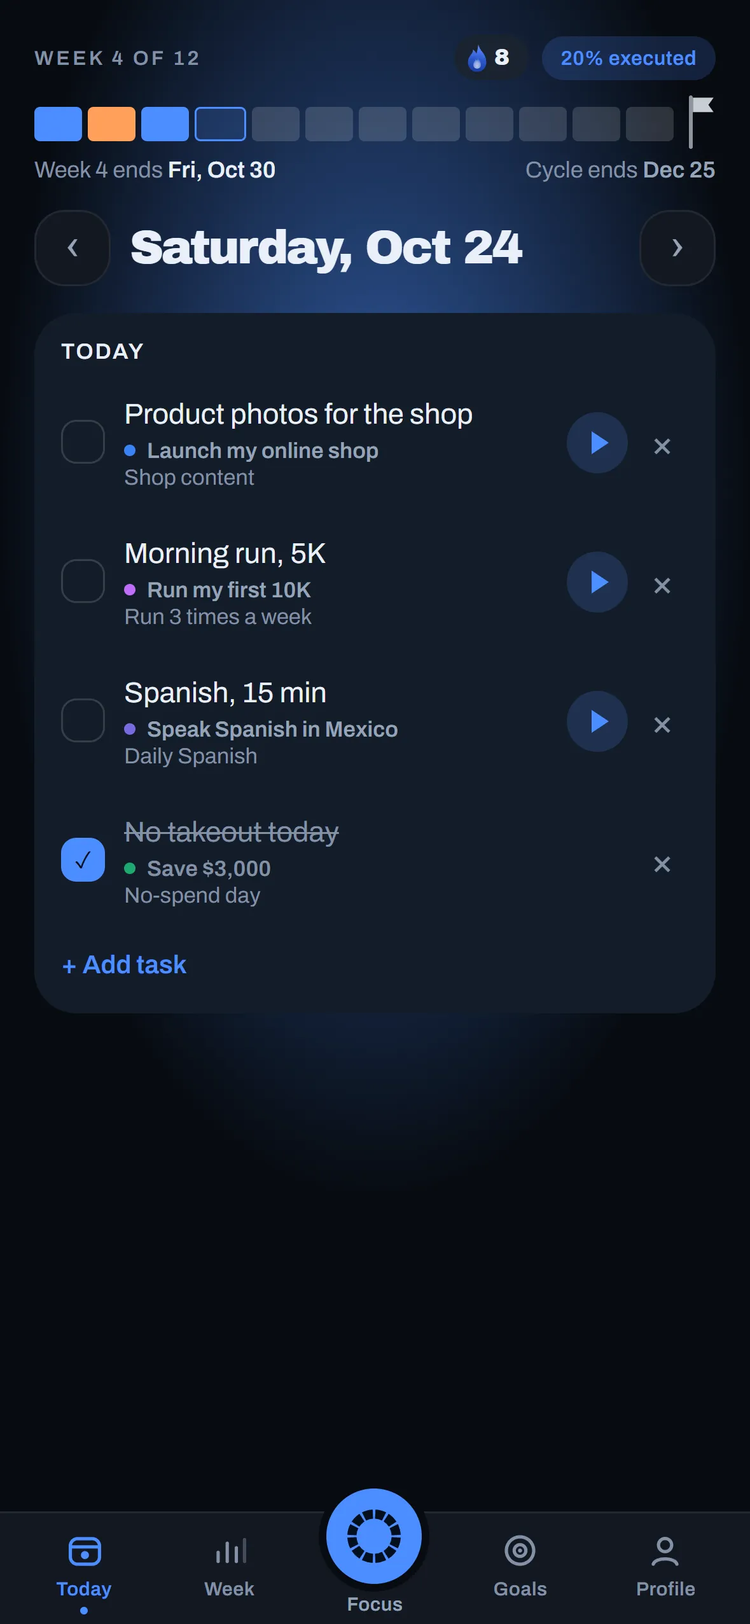
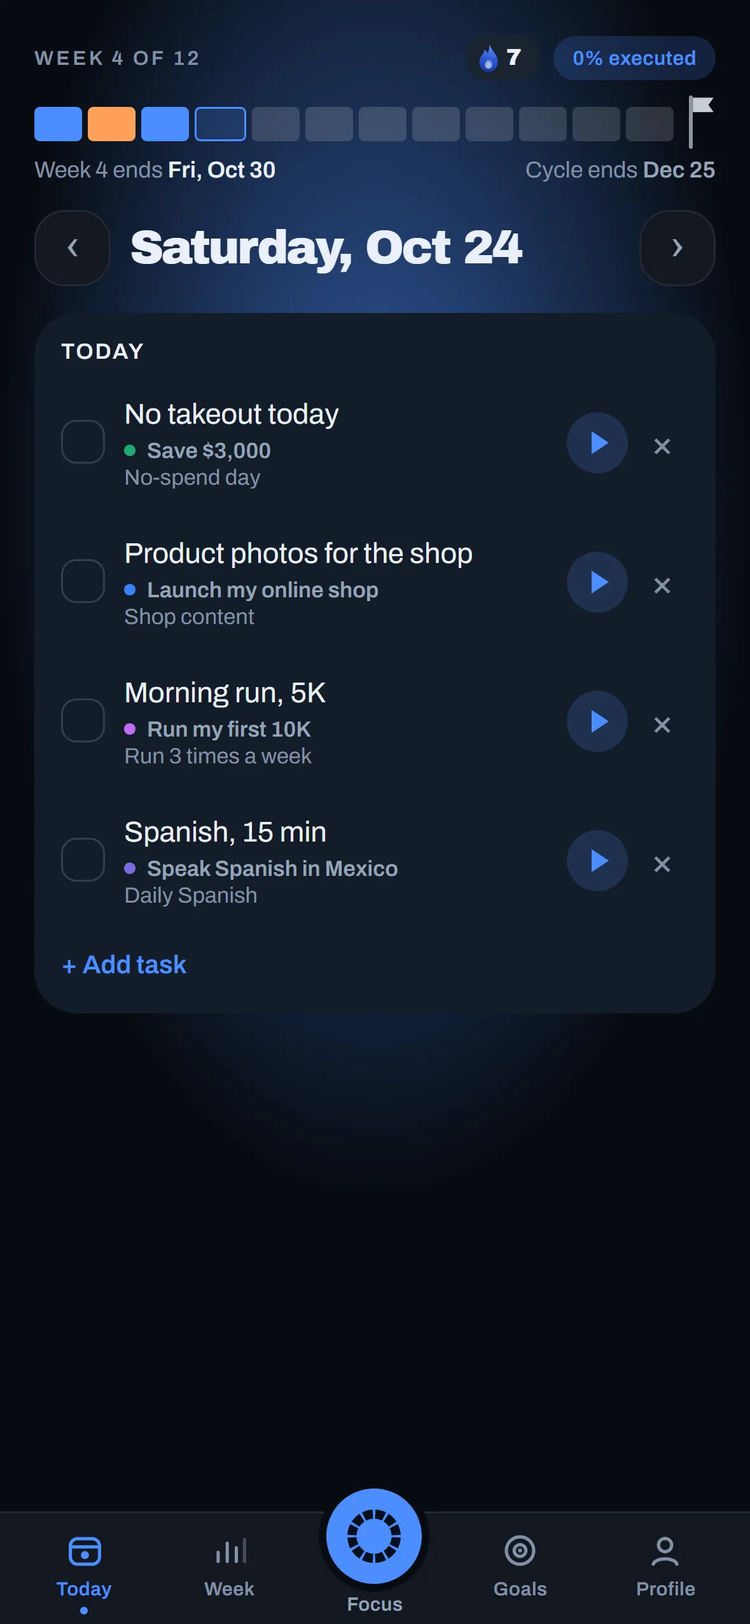
How it works, étape 04 : Today avec ses tâches à faire, sans coche

diff --git a/home-ui.js b/home-ui.js
@@ -1,1 +1,1 @@
-!function(){var e=document.documentElement,t=e.classList.contains("still");window.SY={still:t};var n=document.querySelectorAll(".theme button");function r(){n.forEach(function(t){t.setAttribute("aria-pressed",String(t.dataset.set===e.getAttribute("data-theme")))})}r(),n.forEach(function(n){n.addEventListener("click",function(){var a=n.dataset.set;if(a!==e.getAttribute("data-theme")){var s=function(){e.setAttribute("data-theme",a),r(),document.dispatchEvent(new CustomEvent("sy-theme"))};try{localStorage.setItem("sy-theme",a)}catch(e){}document.startViewTransition&&!t?document.startViewTransition(s):s()}})}),document.querySelectorAll("form[data-join]").forEach(function(e){e.addEventListener("submit",function(t){t.preventDefault();var n=document.createElement("p");n.className="join-done",n.setAttribute("role","status"),n.textContent="You’re on the list. We’ll email you the day Shortyear opens.",e.replaceWith(n)})});var a=document.querySelectorAll("[data-reveal]");if(!t&&"IntersectionObserver"in window){var s=new IntersectionObserver(function(e){e.forEach(function(e){e.isIntersecting&&(e.target.classList.add("in"),s.unobserve(e.target))})},{rootMargin:"0px 0px -12% 0px",threshold:.12});a.forEach(function(e){s.observe(e)})}else a.forEach(function(e){e.classList.add("in")})}(),function(){var e=document.documentElement,t=window.SY.still,n=matchMedia("(min-width: 900px)");function r(e,n,r,a,s){e.querySelectorAll(".ring g").forEach(function(e){e.querySelectorAll("path").forEach(function(e,i){e.style.transitionDelay=(a&&!t?Math.max(0,i-(s||0))*a:0)+"ms",e.classList.toggle("on",i<n),e.classList.toggle("now",!!r&&i===n)})})}function a(e,n,r){if(e)if(!t&&"IntersectionObserver"in window){var a=new IntersectionObserver(function(e){e.forEach(function(e){e.isIntersecting&&(n(),a.disconnect())})},r||{threshold:.35});a.observe(e)}else n()}requestAnimationFrame(function(){requestAnimationFrame(function(){e.classList.add("go")})});var s=document.getElementById("hw");s&&function(){for(var e=t||matchMedia("(prefers-reduced-motion: reduce)").matches,r=document.getElementById("hw-rail"),a=r.querySelectorAll(".hw-st"),i=s.querySelectorAll(".hw-segs i"),o=document.getElementById("hw-mk"),c=document.getElementById("hw-mtext"),l=document.getElementById("hw-cap"),d=document.getElementById("hw-view"),u=document.getElementById("hw-scene"),h=u.querySelectorAll(".hw-lv"),f=document.getElementById("hw-cyc"),m=document.getElementById("hw-ph3"),v=[0,1,1,2,2,3],p=["Illustration of “My 3 years”. Sample account.","Illustration of one cycle. Sample account.","Illustration of one cycle. Sample account.","Real screen from the app. Sample account.","Real screen from the app. Sample account.","Real screen from the app. Sample account."],y="",g=0;g<3;g++){y+='<div class="hw-yr"><span class="hw-yl">Y'+(g+1)+'</span><div class="hw-g">';for(var w=0;w<52;w++)y+='<span class="hw-sq'+(0===g&&0===w?" now":"")+'"></span>';y+="</div></div>"}document.getElementById("hw-years").innerHTML=y,y="";for(var E=0;E<12;E++){y+='<div class="hw-w"><span class="hw-sq">';for(var L=0;L<12;L++)y+='<i class="hw-dot" style="--i:'+(E+.15*L).toFixed(2)+'"></i>';y+='</span><span class="hw-n">'+(E+1)+"</span></div>"}document.getElementById("hw-row").innerHTML=y+'<span></span><div class="hw-w"><span class="hw-sq r13"></span><span class="hw-n">13</span></div>';document.getElementById("hw-days").innerHTML=[["Fri",23,1],["Sat",24,4],["Sun",25,1],["Mon",26,2],["Tue",27,1],["Wed",28,1],["Thu",29,1]].map(function(e){return'<div class="hw-day'+(24===e[1]?" today":"")+'"><span class="dn">'+e[0]+'</span><span class="dd">'+e[1]+'</span><span class="ts">'+new Array(e[2]+1).join("<span></span>")+"</span></div>"}).join("");var b=-1,q=[];function S(t,n){e?n():q.push(setTimeout(n,t))}function A(t){m.querySelectorAll(".hw-scr").forEach(function(e){e.classList.toggle("on",e.getAttribute("data-s")===t)}),e||(m.classList.remove("sweeping"),m.offsetWidth,m.classList.add("sweeping"))}function x(e){if(e!==b){b=e,q.forEach(clearTimeout),q=[],a.forEach(function(t,n){t.classList.toggle("on",n===e),t.classList.toggle("done",n<e)}),r.style.setProperty("--p",e/5),i.forEach(function(t,n){t.classList.toggle("on",n<=e)});var t=a[e].querySelector(".hw-k"),n=a[e].querySelector(".hw-txt > div");o.innerHTML=t.innerHTML,c.innerHTML=n.innerHTML,l.textContent=p[e];var s=v[e];h.forEach(function(e,t){e.classList.toggle("past",t<s),e.classList.toggle("cur",t===s),e.classList.toggle("future",t>s)}),f.classList.remove("fill"),h[2].classList.remove("up"),2===e&&S(500,function(){f.classList.add("fill")}),3===e&&(A("today"),S(1300,function(){h[2].classList.add("up")}),S(2800,function(){A("done")})),4===e&&(h[2].classList.add("up"),A("week"))}}function M(){if(!n.matches)return u.style.removeProperty("--fit"),void u.style.setProperty("--fh",Math.max(200,Math.min(560,d.clientHeight-58))+"px");u.style.removeProperty("--fh"),u.style.setProperty("--fit",Math.min(1,d.clientWidth/640,.8*innerHeight/620).toFixed(3))}var C=/[?&]hw=(\d)/.exec(location.search);function I(){if(!C){var e=s.getBoundingClientRect(),t=s.offsetHeight-innerHeight;x(Math.min(5,Math.floor(6*Math.min(1,Math.max(0,-e.top/t)))))}}M(),addEventListener("resize",function(){M(),I()}),C?x(Math.min(6,Math.max(1,Number(C[1])))-1):(x(0),I(),addEventListener("scroll",I,{passive:!0}))}();var i=document.querySelector(".qs-worlds"),o=document.querySelector(".qs-mq");if(i&&o){var c=!1,l=!1,d=function(){c&&l&&!t&&o.classList.add("glint")};a(i,function(){i.classList.add("go"),setTimeout(function(){c=!0,d()},t?0:3300)}),a(o,function(){l=!0,d()},{threshold:.5})}var u=document.querySelector(".kw-stage");a(u,function(){u.classList.add("go")});var h=document.querySelector(".end-stage");if(h&&r(h,0,!1),a(h,function(){h.classList.add("lit"),setTimeout(function(){r(h,0,!0),h.classList.add("glow")},t?0:300)}),"IntersectionObserver"in window){var f=new IntersectionObserver(function(e){e.forEach(function(e){e.target.classList.toggle("live",e.isIntersecting)})},{rootMargin:"10% 0px"});document.querySelectorAll("[data-live]").forEach(function(e){f.observe(e)})}document.querySelector(".bg").classList.add("live");var m=document.getElementById("top");function v(){m.classList.toggle("solid",scrollY>24)}addEventListener("scroll",v,{passive:!0}),v();var p=document.querySelector(".bg"),y=document.querySelector(".hero");p&&y&&("IntersectionObserver"in window?new IntersectionObserver(function(e){p.classList.toggle("past-hero",e[0].intersectionRatio<.5)},{threshold:[0,.5,1]}).observe(y):p.classList.add("past-hero"));var g=matchMedia("(max-width: 640px)");document.querySelectorAll(".tfl-row, .vitrines").forEach(function(e){var n=e.querySelectorAll(":scope > article"),r=n.length,a=document.createElement("div");a.className="m-dots";var s=function(){return parseFloat(getComputedStyle(e).paddingLeft)||0};n.forEach(function(n,i){var o=document.createElement("button");o.type="button",o.setAttribute("aria-label","Show card "+(i+1)+" of "+r),o.addEventListener("click",function(){e.scrollTo({left:e.scrollLeft+n.getBoundingClientRect().left-e.getBoundingClientRect().left-s(),behavior:t||matchMedia("(prefers-reduced-motion: reduce)").matches?"auto":"smooth"})}),a.appendChild(o)}),e.after(a);var i=function(){var t=e.getBoundingClientRect().left+s(),r=0,i=1/0;n.forEach(function(e,n){var a=Math.abs(e.getBoundingClientRect().left-t);a<i&&(i=a,r=n)}),a.querySelectorAll("button").forEach(function(e,t){e.setAttribute("aria-current",String(t===r))})};e.addEventListener("scroll",i,{passive:!0}),i()});var w=document.getElementById("research");w&&function(){var e=w.querySelectorAll(".card");function t(e,t){e.classList.toggle("open",t);var n=e.querySelector(".rq");n&&n.setAttribute("aria-expanded",String(t));var r=e.querySelector(".study");r&&(r.open=t)}function n(){g.matches?w.classList.contains("rq-on")||(w.classList.add("rq-on"),e.forEach(function(e){var n=e.querySelector("h3"),r=document.createElement("button");for(r.type="button",r.className="rq";n.firstChild;)r.appendChild(n.firstChild);n.appendChild(r),r.addEventListener("click",function(){t(e,!e.classList.contains("open"))}),t(e,!1)})):w.classList.contains("rq-on")&&(w.classList.remove("rq-on"),e.forEach(function(e){var t=e.querySelector("h3"),n=t.querySelector(".rq");if(n){for(;n.firstChild;)t.insertBefore(n.firstChild,n);n.remove()}e.classList.remove("open");var r=e.querySelector(".study");r&&(r.open=!1)}))}n(),g.addEventListener("change",n);var r=function(e){var n=/^#r[1-6]$/.test(e||"")&&document.querySelector(e);n&&w.classList.contains("rq-on")&&t(n,!0)};document.addEventListener("click",function(e){var t=e.target.closest&&e.target.closest("a.ref");t&&r(t.getAttribute("href"))}),r(location.hash)}(),g.matches&&document.querySelectorAll(".faq details[open]").forEach(function(e){e.open=!1}),document.querySelectorAll(".dn-stage").forEach(function(e){var t=e.querySelector(".dn-range");if(t){var n=e.querySelector(".dn-phone .screen"),r=function(){n&&e.style.setProperty("--dnw",n.clientWidth+"px")},a=function(){e.style.setProperty("--p",t.value+"%"),e.style.setProperty("--pn",t.value/100)};t.addEventListener("input",a),addEventListener("resize",r),r(),a()}})}(),function(){var e=performance.now(),t=document.querySelectorAll("[data-hl]");if(t.length){var n;window.SY.still||matchMedia("(prefers-reduced-motion: reduce)").matches;(document.fonts?document.fonts.load("600 24px Archivo").then(function(){return document.fonts.ready}):Promise.resolve()).then(function(){a(!1)}),addEventListener("resize",function(){clearTimeout(n),n=setTimeout(function(){a(!1)},150)})}function r(e,t){var n=document.createElementNS("http://www.w3.org/2000/svg",e);for(var r in t)n.setAttribute(r,t[r]);return n}function a(n){t.forEach(function(t,a){!function(t,n,a){t.querySelectorAll(".hl").forEach(function(e){e.remove()});var s=t.offsetWidth,i=t.offsetHeight,o=.22*i,c=.3*i,l=.2*i,d=s+o+c,u=i+2*l,h="hl"+n,f=r("svg",{class:"hl",width:d,height:u,viewBox:"0 0 "+d+" "+u,"aria-hidden":"true"});f.style.left=-o+"px",f.style.top=-l+"px";var m=r("defs",{}),v=r("filter",{id:h+"f",x:"-3%",y:"-25%",width:"106%",height:"150%"});v.appendChild(r("feTurbulence",{type:"fractalNoise",baseFrequency:".06 .9",numOctaves:"2",seed:String(4+n),result:"n"})),v.appendChild(r("feDisplacementMap",{in:"SourceGraphic",in2:"n",scale:String(Math.max(3,.1*i)),result:"d"})),v.appendChild(r("feGaussianBlur",{in:"d",stdDeviation:".5"}));for(var p=l+.1*i,y=l+.98*i,g=.25*o,w=d-.2*c,E=.07*-i,L=[],b=[],q=0;q<=28;q++){var S=q/28,A=g+(w-g)*S,x=E*S;L.push([A,p+x+Math.sin(11*S+n)*i*.025+Math.sin(29*S+3*n)*i*.012]),b.push([A,y+x+Math.sin(9*S+2*n)*i*.03+Math.sin(23*S)*i*.012])}L[0][0]+=.16*i,b[28][0]-=.12*i;var M=function(e){return e[0].toFixed(1)+" "+e[1].toFixed(1)},C="M"+L.map(M).join("L")+"L"+b.reverse().map(M).join("L")+"Z",I=r("linearGradient",{id:h+"g",x1:"0",x2:"1",y1:"0",y2:"0"});[[0,.98],[.06,.88],[.5,.84],[.94,.88],[1,.98]].forEach(function(e){I.appendChild(r("stop",{offset:e[0],"stop-color":"var(--hl)","stop-opacity":e[1]}))});var B=r("mask",{id:h+"m",maskUnits:"userSpaceOnUse"}),T=r("rect",{x:0,y:0,width:d,height:u,fill:"#fff"});if(a&&(T.style.transformBox="fill-box",T.style.transformOrigin="left",T.style.animation="hl-swipe .45s linear "+Math.max(0,1.05+.36*n-(performance.now()-e)/1e3).toFixed(3)+"s both"),B.appendChild(T),m.appendChild(v),m.appendChild(I),m.appendChild(B),f.appendChild(m),f.appendChild(r("path",{d:C,fill:"url(#"+h+"g)",filter:"url(#"+h+"f)",mask:"url(#"+h+"m)"})),t.insertBefore(f,t.firstChild),t.querySelectorAll(".hl-ink").forEach(function(e){e.remove()}),a){var k=document.createElement("span");if(k.className="hl-ink",k.setAttribute("aria-hidden","true"),k.textContent=t.getAttribute("data-text")||(t.setAttribute("data-text",t.textContent),t.textContent),a){var N=Math.max(0,1.05+.36*n-(performance.now()-e)/1e3);k.style.animation="hl-ink "+(.45*s/d).toFixed(3)+"s linear "+(N+.45*o/d).toFixed(3)+"s both"}t.appendChild(k)}else t.classList.add("hl-on")}(t,a,n)})}}(),function(){var e=document.getElementById("hw"),t=document.getElementById("hw-scene");if(e&&t){var n=window.SY&&window.SY.still,r=(/[?&]hw2=(list|carousel)/.exec(location.search)||[])[1]||"carousel",a=t.querySelectorAll(".hw-lv"),s=e.querySelectorAll(".hw-st"),i=[0,1,1,2,2,3],o=document.createElement("div");o.className="hw2 hw2-"+r;var c=document.createElement("div");c.className="hw2-track",o.appendChild(c),e.parentNode.replaceChild(o,e);var l=[];document.addEventListener("sy-theme",v);var d=[];if(s.forEach(function(e,n){var r=document.createElement("article");r.className="hw2-step",c.appendChild(r);var s=document.createElement("div");s.className="hw2-txt",s.appendChild(e.querySelector(".hw-k").cloneNode(!0)),s.appendChild(e.querySelector(".hw-txt > div").cloneNode(!0));var o=document.createElement("div");o.className="hw2-vis";var u=document.createElement("div");u.className="hw2-scene",r.appendChild(o),o.appendChild(u);var h=t.querySelector(".hw-halo");h&&u.appendChild(h.cloneNode(!0));var f,m=((f=a[i[n]].cloneNode(!0)).querySelectorAll("img.t-dark, img.t-light").forEach(function(e){l.push(e),e.getAttribute("src")&&(e.dataset.src=e.getAttribute("src")),e.getAttribute("srcset")&&(e.dataset.srcset=e.getAttribute("srcset")),e.removeAttribute("srcset"),e.removeAttribute("src")}),f);if(m.classList.remove("cur","past","up"),m.classList.add("future"),m.removeAttribute("id"),m.querySelectorAll("[id]").forEach(function(e){e.removeAttribute("id")}),m.querySelectorAll(".hw-cyc").forEach(function(e){e.classList.remove("fill")}),2===n){var v=m.querySelector(".hw-gcards");if(v){var p=["M","T","W","T","F","S","S"],y=function(e,t,n,r){return'<div class="hw-tac '+e+'"><p class="hw-tac-k">YOUR TACTIC</p><b>'+t+'</b><p class="hw-tac-g">'+n+'</p><div class="hw-tac-d">'+p.map(function(e,t){return"<i"+(r.indexOf(t)>=0?' class="on"':"")+">"+e+"</i>"}).join("")+"</div></div>"},g=document.createElement("div");g.className="hw-tacs",g.innerHTML=y("back","Spanish, 15 min","Speak Spanish in Mexico",[0,1,2,3,4,5,6])+y("front","Workout","Run my first 10K",[0,2,4,6]),v.parentNode.replaceChild(g,v)}}u.appendChild(m),r.insertBefore(s,o),d.push({st:r,lv:m,i:n,sc:u,vis:o,done:!1})}),v(),c.querySelectorAll("img[data-src]:not(.t-dark):not(.t-light)").forEach(function(e){e.dataset.srcset&&e.setAttribute("srcset",e.dataset.srcset),e.setAttribute("src",e.dataset.src)}),d.forEach(function(e){3!==e.i&&4!==e.i||p(e.lv,3===e.i?"today":"week")}),g(),addEventListener("resize",g),n||!("IntersectionObserver"in window))d.forEach(y);else{var u=new IntersectionObserver(function(e){e.forEach(function(e){e.isIntersecting&&(y(d[[].indexOf.call(c.children,e.target)]),u.unobserve(e.target))})},{threshold:.2});d.forEach(function(e){u.observe(e.st)})}if("carousel"===r){var h=document.createElement("div");h.className="hw2-nav",h.innerHTML='<button type="button" class="hw2-btn" data-d="-1" aria-label="Previous step">‹</button><div class="hw2-dots">'+d.map(function(e,t){return'<i data-i="'+t+'"></i>'}).join("")+'</div><button type="button" class="hw2-btn" data-d="1" aria-label="Next step">›</button>',o.appendChild(h);var f=0,m=!n;c.addEventListener("scroll",function(){requestAnimationFrame(E)},{passive:!0}),E(),h.addEventListener("click",function(e){var t=e.target.closest("[data-d],[data-i]");t&&(m=!1,w(t.hasAttribute("data-i")?+t.getAttribute("data-i"):f+ +t.getAttribute("data-d")))}),["pointerdown","wheel","touchstart"].forEach(function(e){c.addEventListener(e,function(){m=!1},{passive:!0})}),setInterval(function(){var e=o.getBoundingClientRect();m&&!document.hidden&&e.top<innerHeight&&e.bottom>0&&w(f+1)},5e3)}}function v(){var e=document.documentElement.getAttribute("data-theme");l.forEach(function(t){t.dataset.src&&t.classList.contains("t-"+e)&&(t.dataset.srcset&&t.setAttribute("srcset",t.dataset.srcset),t.setAttribute("src",t.dataset.src),t.dataset.src="")})}function p(e,t){e.querySelectorAll(".hw-scr").forEach(function(e){e.classList.toggle("on",!e.hasAttribute("data-s")||e.getAttribute("data-s")===t)})}function y(e){if(!e.done){e.done=!0;var t=function(e,t){n?t():setTimeout(t,e)};e.lv.classList.remove("future"),e.lv.classList.add("cur"),2===e.i&&t(500,function(){e.lv.querySelector(".hw-cyc").classList.add("fill")}),3===e.i&&(t(700,function(){e.lv.classList.add("up")}),t(2200,function(){p(e.lv,"done")})),4===e.i&&e.lv.classList.add("up")}}function g(){d.forEach(function(e){var t=Math.min(1,e.vis.clientWidth/640);e.sc.style.transform="scale("+t.toFixed(4)+")",e.vis.style.setProperty("--k",t.toFixed(4))})}function w(e){f=(e+d.length)%d.length,c.scrollTo({left:d[f].st.offsetLeft-(c.clientWidth-d[f].st.clientWidth)/2,behavior:n?"auto":"smooth"})}function E(){var e=c.scrollLeft+c.clientWidth/2,t=0,n=1e9;d.forEach(function(r,a){var s=r.st.offsetLeft+r.st.clientWidth/2,i=Math.abs(s-e);i<n&&(n=i,t=a)}),f=t,h.querySelectorAll(".hw2-dots i").forEach(function(e,n){e.classList.toggle("on",n===t)})}}(),function(){function e(){document.querySelectorAll(".mc, .tl").forEach(function(e){var t=e.firstElementChild,n=e.classList.contains("mc")?1280:1200,r=e.classList.contains("mc")?470:560,a=e.clientWidth/n;if(e.classList.contains("mc")&&a<.62&&(a=.62),e.classList.contains("tl")&&innerWidth<900)return t.style.transform="none",void(e.style.height="auto");t.style.transform="scale("+a.toFixed(4)+")",e.style.height=Math.ceil(r*a)+"px"})}e(),addEventListener("resize",e)}(),function(){var e=[].slice.call(document.querySelectorAll(".mq-track")),t=0;function n(){Math.abs(innerWidth-t)<40||(t=innerWidth,e.forEach(function(e){e.classList.remove("mq-on"),e.style.setProperty("--dur",(e.scrollWidth/2/45).toFixed(1)+"s"),e.offsetWidth,e.classList.add("mq-on")}))}(document.fonts?document.fonts.ready:Promise.resolve()).then(n),addEventListener("resize",n)}(),function(){var e=document.querySelector(".qs-worlds"),t=e&&e.querySelector(".qs-arrows");function n(t){return e.querySelector(t).getBoundingClientRect()}function r(e,t,n,r,a,s,i,o){var c=Math.atan2(o-s,i-a),l=function(e){return(i+13*Math.cos(c+Math.PI+e)).toFixed(1)+" "+(o+13*Math.sin(c+Math.PI+e)).toFixed(1)};return'<path class="dash" d="M'+e+" "+t+" C "+n+" "+r+", "+a+" "+s+", "+i+" "+o+'"/><path d="M'+l(.5)+" L"+i+" "+o+" L"+l(-.5)+'"/>'}function a(){if(innerWidth<1024)t.innerHTML="";else{var a=e.getBoundingClientRect(),s=n(".qc-main"),i=n(".qc-side"),o=n(".qs-main .qs-name"),c=n(".qs-side .qs-name"),l=function(e){return{l:e.left-a.left,r:e.right-a.left,t:e.top-a.top,b:e.bottom-a.top,cy:(e.top+e.bottom)/2-a.top}},d=l(s),u=l(i),h=l(o),f=l(c),m=h.r+14,v=h.t-6,p=d.l-8,y=d.cy,g=f.l+70,w=f.b+105,E=u.r+8,L=u.cy+20;t.innerHTML=r(m,v,m+28,v-48,p-44,y,p,y)+r(g,w,g-20,w+30,E+40,L+45,E,L)}}t&&(a(),addEventListener("resize",a),document.fonts&&document.fonts.ready.then(a))}();
+!function(){var e=document.documentElement,t=e.classList.contains("still");window.SY={still:t};var n=document.querySelectorAll(".theme button");function r(){n.forEach(function(t){t.setAttribute("aria-pressed",String(t.dataset.set===e.getAttribute("data-theme")))})}r(),n.forEach(function(n){n.addEventListener("click",function(){var a=n.dataset.set;if(a!==e.getAttribute("data-theme")){var s=function(){e.setAttribute("data-theme",a),r(),document.dispatchEvent(new CustomEvent("sy-theme"))};try{localStorage.setItem("sy-theme",a)}catch(e){}document.startViewTransition&&!t?document.startViewTransition(s):s()}})}),document.querySelectorAll("form[data-join]").forEach(function(e){e.addEventListener("submit",function(t){t.preventDefault();var n=document.createElement("p");n.className="join-done",n.setAttribute("role","status"),n.textContent="You’re on the list. We’ll email you the day Shortyear opens.",e.replaceWith(n)})});var a=document.querySelectorAll("[data-reveal]");if(!t&&"IntersectionObserver"in window){var s=new IntersectionObserver(function(e){e.forEach(function(e){e.isIntersecting&&(e.target.classList.add("in"),s.unobserve(e.target))})},{rootMargin:"0px 0px -12% 0px",threshold:.12});a.forEach(function(e){s.observe(e)})}else a.forEach(function(e){e.classList.add("in")})}(),function(){var e=document.documentElement,t=window.SY.still,n=matchMedia("(min-width: 900px)");function r(e,n,r,a,s){e.querySelectorAll(".ring g").forEach(function(e){e.querySelectorAll("path").forEach(function(e,i){e.style.transitionDelay=(a&&!t?Math.max(0,i-(s||0))*a:0)+"ms",e.classList.toggle("on",i<n),e.classList.toggle("now",!!r&&i===n)})})}function a(e,n,r){if(e)if(!t&&"IntersectionObserver"in window){var a=new IntersectionObserver(function(e){e.forEach(function(e){e.isIntersecting&&(n(),a.disconnect())})},r||{threshold:.35});a.observe(e)}else n()}requestAnimationFrame(function(){requestAnimationFrame(function(){e.classList.add("go")})});var s=document.getElementById("hw");s&&function(){for(var e=t||matchMedia("(prefers-reduced-motion: reduce)").matches,r=document.getElementById("hw-rail"),a=r.querySelectorAll(".hw-st"),i=s.querySelectorAll(".hw-segs i"),o=document.getElementById("hw-mk"),c=document.getElementById("hw-mtext"),l=document.getElementById("hw-cap"),d=document.getElementById("hw-view"),u=document.getElementById("hw-scene"),h=u.querySelectorAll(".hw-lv"),f=document.getElementById("hw-cyc"),m=document.getElementById("hw-ph3"),v=[0,1,1,2,2,3],p=["Illustration of “My 3 years”. Sample account.","Illustration of one cycle. Sample account.","Illustration of one cycle. Sample account.","Real screen from the app. Sample account.","Real screen from the app. Sample account.","Real screen from the app. Sample account."],y="",g=0;g<3;g++){y+='<div class="hw-yr"><span class="hw-yl">Y'+(g+1)+'</span><div class="hw-g">';for(var w=0;w<52;w++)y+='<span class="hw-sq'+(0===g&&0===w?" now":"")+'"></span>';y+="</div></div>"}document.getElementById("hw-years").innerHTML=y,y="";for(var E=0;E<12;E++){y+='<div class="hw-w"><span class="hw-sq">';for(var L=0;L<12;L++)y+='<i class="hw-dot" style="--i:'+(E+.15*L).toFixed(2)+'"></i>';y+='</span><span class="hw-n">'+(E+1)+"</span></div>"}document.getElementById("hw-row").innerHTML=y+'<span></span><div class="hw-w"><span class="hw-sq r13"></span><span class="hw-n">13</span></div>';document.getElementById("hw-days").innerHTML=[["Fri",23,1],["Sat",24,4],["Sun",25,1],["Mon",26,2],["Tue",27,1],["Wed",28,1],["Thu",29,1]].map(function(e){return'<div class="hw-day'+(24===e[1]?" today":"")+'"><span class="dn">'+e[0]+'</span><span class="dd">'+e[1]+'</span><span class="ts">'+new Array(e[2]+1).join("<span></span>")+"</span></div>"}).join("");var b=-1,q=[];function S(t,n){e?n():q.push(setTimeout(n,t))}function A(t){m.querySelectorAll(".hw-scr").forEach(function(e){e.classList.toggle("on",e.getAttribute("data-s")===t)}),e||(m.classList.remove("sweeping"),m.offsetWidth,m.classList.add("sweeping"))}function x(e){if(e!==b){b=e,q.forEach(clearTimeout),q=[],a.forEach(function(t,n){t.classList.toggle("on",n===e),t.classList.toggle("done",n<e)}),r.style.setProperty("--p",e/5),i.forEach(function(t,n){t.classList.toggle("on",n<=e)});var t=a[e].querySelector(".hw-k"),n=a[e].querySelector(".hw-txt > div");o.innerHTML=t.innerHTML,c.innerHTML=n.innerHTML,l.textContent=p[e];var s=v[e];h.forEach(function(e,t){e.classList.toggle("past",t<s),e.classList.toggle("cur",t===s),e.classList.toggle("future",t>s)}),f.classList.remove("fill"),h[2].classList.remove("up"),2===e&&S(500,function(){f.classList.add("fill")}),3===e&&(A("today"),S(1300,function(){h[2].classList.add("up")}),S(2800,function(){A("done")})),4===e&&(h[2].classList.add("up"),A("week"))}}function M(){if(!n.matches)return u.style.removeProperty("--fit"),void u.style.setProperty("--fh",Math.max(200,Math.min(560,d.clientHeight-58))+"px");u.style.removeProperty("--fh"),u.style.setProperty("--fit",Math.min(1,d.clientWidth/640,.8*innerHeight/620).toFixed(3))}var C=/[?&]hw=(\d)/.exec(location.search);function I(){if(!C){var e=s.getBoundingClientRect(),t=s.offsetHeight-innerHeight;x(Math.min(5,Math.floor(6*Math.min(1,Math.max(0,-e.top/t)))))}}M(),addEventListener("resize",function(){M(),I()}),C?x(Math.min(6,Math.max(1,Number(C[1])))-1):(x(0),I(),addEventListener("scroll",I,{passive:!0}))}();var i=document.querySelector(".qs-worlds"),o=document.querySelector(".qs-mq");if(i&&o){var c=!1,l=!1,d=function(){c&&l&&!t&&o.classList.add("glint")};a(i,function(){i.classList.add("go"),setTimeout(function(){c=!0,d()},t?0:3300)}),a(o,function(){l=!0,d()},{threshold:.5})}var u=document.querySelector(".kw-stage");a(u,function(){u.classList.add("go")});var h=document.querySelector(".end-stage");if(h&&r(h,0,!1),a(h,function(){h.classList.add("lit"),setTimeout(function(){r(h,0,!0),h.classList.add("glow")},t?0:300)}),"IntersectionObserver"in window){var f=new IntersectionObserver(function(e){e.forEach(function(e){e.target.classList.toggle("live",e.isIntersecting)})},{rootMargin:"10% 0px"});document.querySelectorAll("[data-live]").forEach(function(e){f.observe(e)})}document.querySelector(".bg").classList.add("live");var m=document.getElementById("top");function v(){m.classList.toggle("solid",scrollY>24)}addEventListener("scroll",v,{passive:!0}),v();var p=document.querySelector(".bg"),y=document.querySelector(".hero");p&&y&&("IntersectionObserver"in window?new IntersectionObserver(function(e){p.classList.toggle("past-hero",e[0].intersectionRatio<.5)},{threshold:[0,.5,1]}).observe(y):p.classList.add("past-hero"));var g=matchMedia("(max-width: 640px)");document.querySelectorAll(".tfl-row, .vitrines").forEach(function(e){var n=e.querySelectorAll(":scope > article"),r=n.length,a=document.createElement("div");a.className="m-dots";var s=function(){return parseFloat(getComputedStyle(e).paddingLeft)||0};n.forEach(function(n,i){var o=document.createElement("button");o.type="button",o.setAttribute("aria-label","Show card "+(i+1)+" of "+r),o.addEventListener("click",function(){e.scrollTo({left:e.scrollLeft+n.getBoundingClientRect().left-e.getBoundingClientRect().left-s(),behavior:t||matchMedia("(prefers-reduced-motion: reduce)").matches?"auto":"smooth"})}),a.appendChild(o)}),e.after(a);var i=function(){var t=e.getBoundingClientRect().left+s(),r=0,i=1/0;n.forEach(function(e,n){var a=Math.abs(e.getBoundingClientRect().left-t);a<i&&(i=a,r=n)}),a.querySelectorAll("button").forEach(function(e,t){e.setAttribute("aria-current",String(t===r))})};e.addEventListener("scroll",i,{passive:!0}),i()});var w=document.getElementById("research");w&&function(){var e=w.querySelectorAll(".card");function t(e,t){e.classList.toggle("open",t);var n=e.querySelector(".rq");n&&n.setAttribute("aria-expanded",String(t));var r=e.querySelector(".study");r&&(r.open=t)}function n(){g.matches?w.classList.contains("rq-on")||(w.classList.add("rq-on"),e.forEach(function(e){var n=e.querySelector("h3"),r=document.createElement("button");for(r.type="button",r.className="rq";n.firstChild;)r.appendChild(n.firstChild);n.appendChild(r),r.addEventListener("click",function(){t(e,!e.classList.contains("open"))}),t(e,!1)})):w.classList.contains("rq-on")&&(w.classList.remove("rq-on"),e.forEach(function(e){var t=e.querySelector("h3"),n=t.querySelector(".rq");if(n){for(;n.firstChild;)t.insertBefore(n.firstChild,n);n.remove()}e.classList.remove("open");var r=e.querySelector(".study");r&&(r.open=!1)}))}n(),g.addEventListener("change",n);var r=function(e){var n=/^#r[1-6]$/.test(e||"")&&document.querySelector(e);n&&w.classList.contains("rq-on")&&t(n,!0)};document.addEventListener("click",function(e){var t=e.target.closest&&e.target.closest("a.ref");t&&r(t.getAttribute("href"))}),r(location.hash)}(),g.matches&&document.querySelectorAll(".faq details[open]").forEach(function(e){e.open=!1}),document.querySelectorAll(".dn-stage").forEach(function(e){var t=e.querySelector(".dn-range");if(t){var n=e.querySelector(".dn-phone .screen"),r=function(){n&&e.style.setProperty("--dnw",n.clientWidth+"px")},a=function(){e.style.setProperty("--p",t.value+"%"),e.style.setProperty("--pn",t.value/100)};t.addEventListener("input",a),addEventListener("resize",r),r(),a()}})}(),function(){var e=performance.now(),t=document.querySelectorAll("[data-hl]");if(t.length){var n;window.SY.still||matchMedia("(prefers-reduced-motion: reduce)").matches;(document.fonts?document.fonts.load("600 24px Archivo").then(function(){return document.fonts.ready}):Promise.resolve()).then(function(){a(!1)}),addEventListener("resize",function(){clearTimeout(n),n=setTimeout(function(){a(!1)},150)})}function r(e,t){var n=document.createElementNS("http://www.w3.org/2000/svg",e);for(var r in t)n.setAttribute(r,t[r]);return n}function a(n){t.forEach(function(t,a){!function(t,n,a){t.querySelectorAll(".hl").forEach(function(e){e.remove()});var s=t.offsetWidth,i=t.offsetHeight,o=.22*i,c=.3*i,l=.2*i,d=s+o+c,u=i+2*l,h="hl"+n,f=r("svg",{class:"hl",width:d,height:u,viewBox:"0 0 "+d+" "+u,"aria-hidden":"true"});f.style.left=-o+"px",f.style.top=-l+"px";var m=r("defs",{}),v=r("filter",{id:h+"f",x:"-3%",y:"-25%",width:"106%",height:"150%"});v.appendChild(r("feTurbulence",{type:"fractalNoise",baseFrequency:".06 .9",numOctaves:"2",seed:String(4+n),result:"n"})),v.appendChild(r("feDisplacementMap",{in:"SourceGraphic",in2:"n",scale:String(Math.max(3,.1*i)),result:"d"})),v.appendChild(r("feGaussianBlur",{in:"d",stdDeviation:".5"}));for(var p=l+.1*i,y=l+.98*i,g=.25*o,w=d-.2*c,E=.07*-i,L=[],b=[],q=0;q<=28;q++){var S=q/28,A=g+(w-g)*S,x=E*S;L.push([A,p+x+Math.sin(11*S+n)*i*.025+Math.sin(29*S+3*n)*i*.012]),b.push([A,y+x+Math.sin(9*S+2*n)*i*.03+Math.sin(23*S)*i*.012])}L[0][0]+=.16*i,b[28][0]-=.12*i;var M=function(e){return e[0].toFixed(1)+" "+e[1].toFixed(1)},C="M"+L.map(M).join("L")+"L"+b.reverse().map(M).join("L")+"Z",I=r("linearGradient",{id:h+"g",x1:"0",x2:"1",y1:"0",y2:"0"});[[0,.98],[.06,.88],[.5,.84],[.94,.88],[1,.98]].forEach(function(e){I.appendChild(r("stop",{offset:e[0],"stop-color":"var(--hl)","stop-opacity":e[1]}))});var B=r("mask",{id:h+"m",maskUnits:"userSpaceOnUse"}),T=r("rect",{x:0,y:0,width:d,height:u,fill:"#fff"});if(a&&(T.style.transformBox="fill-box",T.style.transformOrigin="left",T.style.animation="hl-swipe .45s linear "+Math.max(0,1.05+.36*n-(performance.now()-e)/1e3).toFixed(3)+"s both"),B.appendChild(T),m.appendChild(v),m.appendChild(I),m.appendChild(B),f.appendChild(m),f.appendChild(r("path",{d:C,fill:"url(#"+h+"g)",filter:"url(#"+h+"f)",mask:"url(#"+h+"m)"})),t.insertBefore(f,t.firstChild),t.querySelectorAll(".hl-ink").forEach(function(e){e.remove()}),a){var k=document.createElement("span");if(k.className="hl-ink",k.setAttribute("aria-hidden","true"),k.textContent=t.getAttribute("data-text")||(t.setAttribute("data-text",t.textContent),t.textContent),a){var N=Math.max(0,1.05+.36*n-(performance.now()-e)/1e3);k.style.animation="hl-ink "+(.45*s/d).toFixed(3)+"s linear "+(N+.45*o/d).toFixed(3)+"s both"}t.appendChild(k)}else t.classList.add("hl-on")}(t,a,n)})}}(),function(){var e=document.getElementById("hw"),t=document.getElementById("hw-scene");if(e&&t){var n=window.SY&&window.SY.still,r=(/[?&]hw2=(list|carousel)/.exec(location.search)||[])[1]||"carousel",a=t.querySelectorAll(".hw-lv"),s=e.querySelectorAll(".hw-st"),i=[0,1,1,2,2,3],o=document.createElement("div");o.className="hw2 hw2-"+r;var c=document.createElement("div");c.className="hw2-track",o.appendChild(c),e.parentNode.replaceChild(o,e);var l=[];document.addEventListener("sy-theme",v);var d=[];if(s.forEach(function(e,n){var r=document.createElement("article");r.className="hw2-step",c.appendChild(r);var s=document.createElement("div");s.className="hw2-txt",s.appendChild(e.querySelector(".hw-k").cloneNode(!0)),s.appendChild(e.querySelector(".hw-txt > div").cloneNode(!0));var o=document.createElement("div");o.className="hw2-vis";var u=document.createElement("div");u.className="hw2-scene",r.appendChild(o),o.appendChild(u);var h=t.querySelector(".hw-halo");h&&u.appendChild(h.cloneNode(!0));var f,m=((f=a[i[n]].cloneNode(!0)).querySelectorAll("img.t-dark, img.t-light").forEach(function(e){l.push(e),e.getAttribute("src")&&(e.dataset.src=e.getAttribute("src")),e.getAttribute("srcset")&&(e.dataset.srcset=e.getAttribute("srcset")),e.removeAttribute("srcset"),e.removeAttribute("src")}),f);if(m.classList.remove("cur","past","up"),m.classList.add("future"),m.removeAttribute("id"),m.querySelectorAll("[id]").forEach(function(e){e.removeAttribute("id")}),m.querySelectorAll(".hw-cyc").forEach(function(e){e.classList.remove("fill")}),2===n){var v=m.querySelector(".hw-gcards");if(v){var p=["M","T","W","T","F","S","S"],y=function(e,t,n,r){return'<div class="hw-tac '+e+'"><p class="hw-tac-k">YOUR TACTIC</p><b>'+t+'</b><p class="hw-tac-g">'+n+'</p><div class="hw-tac-d">'+p.map(function(e,t){return"<i"+(r.indexOf(t)>=0?' class="on"':"")+">"+e+"</i>"}).join("")+"</div></div>"},g=document.createElement("div");g.className="hw-tacs",g.innerHTML=y("back","Spanish, 15 min","Speak Spanish in Mexico",[0,1,2,3,4,5,6])+y("front","Workout","Run my first 10K",[0,2,4,6]),v.parentNode.replaceChild(g,v)}}u.appendChild(m),r.insertBefore(s,o),d.push({st:r,lv:m,i:n,sc:u,vis:o,done:!1})}),v(),c.querySelectorAll("img[data-src]:not(.t-dark):not(.t-light)").forEach(function(e){e.dataset.srcset&&e.setAttribute("srcset",e.dataset.srcset),e.setAttribute("src",e.dataset.src)}),d.forEach(function(e){var t,n;3!==e.i&&4!==e.i||(t=e.lv,n=3===e.i?"today":"week",t.querySelectorAll(".hw-scr").forEach(function(e){e.classList.toggle("on",!e.hasAttribute("data-s")||e.getAttribute("data-s")===n)}))}),y(),addEventListener("resize",y),n||!("IntersectionObserver"in window))d.forEach(p);else{var u=new IntersectionObserver(function(e){e.forEach(function(e){e.isIntersecting&&(p(d[[].indexOf.call(c.children,e.target)]),u.unobserve(e.target))})},{threshold:.2});d.forEach(function(e){u.observe(e.st)})}if("carousel"===r){var h=document.createElement("div");h.className="hw2-nav",h.innerHTML='<button type="button" class="hw2-btn" data-d="-1" aria-label="Previous step">‹</button><div class="hw2-dots">'+d.map(function(e,t){return'<i data-i="'+t+'"></i>'}).join("")+'</div><button type="button" class="hw2-btn" data-d="1" aria-label="Next step">›</button>',o.appendChild(h);var f=0,m=!n;c.addEventListener("scroll",function(){requestAnimationFrame(w)},{passive:!0}),w(),h.addEventListener("click",function(e){var t=e.target.closest("[data-d],[data-i]");t&&(m=!1,g(t.hasAttribute("data-i")?+t.getAttribute("data-i"):f+ +t.getAttribute("data-d")))}),["pointerdown","wheel","touchstart"].forEach(function(e){c.addEventListener(e,function(){m=!1},{passive:!0})}),setInterval(function(){var e=o.getBoundingClientRect();m&&!document.hidden&&e.top<innerHeight&&e.bottom>0&&g(f+1)},5e3)}}function v(){var e=document.documentElement.getAttribute("data-theme");l.forEach(function(t){t.dataset.src&&t.classList.contains("t-"+e)&&(t.dataset.srcset&&t.setAttribute("srcset",t.dataset.srcset),t.setAttribute("src",t.dataset.src),t.dataset.src="")})}function p(e){if(!e.done){e.done=!0;var t=function(e,t){n?t():setTimeout(t,e)};e.lv.classList.remove("future"),e.lv.classList.add("cur"),2===e.i&&t(500,function(){e.lv.querySelector(".hw-cyc").classList.add("fill")}),3===e.i&&t(700,function(){e.lv.classList.add("up")}),4===e.i&&e.lv.classList.add("up")}}function y(){d.forEach(function(e){var t=Math.min(1,e.vis.clientWidth/640);e.sc.style.transform="scale("+t.toFixed(4)+")",e.vis.style.setProperty("--k",t.toFixed(4))})}function g(e){f=(e+d.length)%d.length,c.scrollTo({left:d[f].st.offsetLeft-(c.clientWidth-d[f].st.clientWidth)/2,behavior:n?"auto":"smooth"})}function w(){var e=c.scrollLeft+c.clientWidth/2,t=0,n=1e9;d.forEach(function(r,a){var s=r.st.offsetLeft+r.st.clientWidth/2,i=Math.abs(s-e);i<n&&(n=i,t=a)}),f=t,h.querySelectorAll(".hw2-dots i").forEach(function(e,n){e.classList.toggle("on",n===t)})}}(),function(){function e(){document.querySelectorAll(".mc, .tl").forEach(function(e){var t=e.firstElementChild,n=e.classList.contains("mc")?1280:1200,r=e.classList.contains("mc")?470:560,a=e.clientWidth/n;if(e.classList.contains("mc")&&a<.62&&(a=.62),e.classList.contains("tl")&&innerWidth<900)return t.style.transform="none",void(e.style.height="auto");t.style.transform="scale("+a.toFixed(4)+")",e.style.height=Math.ceil(r*a)+"px"})}e(),addEventListener("resize",e)}(),function(){var e=[].slice.call(document.querySelectorAll(".mq-track")),t=0;function n(){Math.abs(innerWidth-t)<40||(t=innerWidth,e.forEach(function(e){e.classList.remove("mq-on"),e.style.setProperty("--dur",(e.scrollWidth/2/45).toFixed(1)+"s"),e.offsetWidth,e.classList.add("mq-on")}))}(document.fonts?document.fonts.ready:Promise.resolve()).then(n),addEventListener("resize",n)}(),function(){var e=document.querySelector(".qs-worlds"),t=e&&e.querySelector(".qs-arrows");function n(t){return e.querySelector(t).getBoundingClientRect()}function r(e,t,n,r,a,s,i,o){var c=Math.atan2(o-s,i-a),l=function(e){return(i+13*Math.cos(c+Math.PI+e)).toFixed(1)+" "+(o+13*Math.sin(c+Math.PI+e)).toFixed(1)};return'<path class="dash" d="M'+e+" "+t+" C "+n+" "+r+", "+a+" "+s+", "+i+" "+o+'"/><path d="M'+l(.5)+" L"+i+" "+o+" L"+l(-.5)+'"/>'}function a(){if(innerWidth<1024)t.innerHTML="";else{var a=e.getBoundingClientRect(),s=n(".qc-main"),i=n(".qc-side"),o=n(".qs-main .qs-name"),c=n(".qs-side .qs-name"),l=function(e){return{l:e.left-a.left,r:e.right-a.left,t:e.top-a.top,b:e.bottom-a.top,cy:(e.top+e.bottom)/2-a.top}},d=l(s),u=l(i),h=l(o),f=l(c),m=h.r+14,v=h.t-6,p=d.l-8,y=d.cy,g=f.l+70,w=f.b+105,E=u.r+8,L=u.cy+20;t.innerHTML=r(m,v,m+28,v-48,p-44,y,p,y)+r(g,w,g-20,w+30,E+40,L+45,E,L)}}t&&(a(),addEventListener("resize",a),document.fonts&&document.fonts.ready.then(a))}();

diff --git a/index.html b/index.html
@@ -157,7 +157,7 @@
               <div class="hw-wk">
                 <div class="hw-days" id="hw-days" role="img" aria-label="Week 4, Friday October 23 to Thursday October 29, with its planned tasks"></div>
                 <figure class="phone hw-phone" id="hw-ph3"><div class="screen">
-                  <div class="hw-scr on" data-s="today"><img class="t-dark" data-src="assets/flow-today-dark-640.webp" data-srcset="assets/flow-today-dark-640.webp 640w, assets/flow-today-dark.webp 1179w" sizes="(max-width: 899px) 92vw, 272px" alt="Today, Saturday October 24, week 4: No takeout today ticked, 3 tasks still to do" width="1179" height="2553" loading="lazy" decoding="async"><img class="t-light" data-src="assets/flow-today-light-640.webp" data-srcset="assets/flow-today-light-640.webp 640w, assets/flow-today-light.webp 1179w" sizes="(max-width: 899px) 92vw, 272px" alt="Today, Saturday October 24, week 4: No takeout today ticked, 3 tasks still to do" width="1179" height="2553" loading="lazy" decoding="async"></div>
+                  <div class="hw-scr on" data-s="today"><img class="t-dark" data-src="assets/flow-today-dark-640.webp" data-srcset="assets/flow-today-dark-640.webp 640w, assets/flow-today-dark.webp 1179w" sizes="(max-width: 899px) 92vw, 272px" alt="Today, Saturday October 24, week 4: 4 tasks to do, one per goal" width="1179" height="2553" loading="lazy" decoding="async"><img class="t-light" data-src="assets/flow-today-light-640.webp" data-srcset="assets/flow-today-light-640.webp 640w, assets/flow-today-light.webp 1179w" sizes="(max-width: 899px) 92vw, 272px" alt="Today, Saturday October 24, week 4: 4 tasks to do, one per goal" width="1179" height="2553" loading="lazy" decoding="async"></div>
                   <div class="hw-scr" data-s="done"><img class="t-dark" data-src="assets/flow-done-dark-640.webp" data-srcset="assets/flow-done-dark-640.webp 640w, assets/flow-done-dark.webp 1179w" sizes="(max-width: 899px) 92vw, 272px" alt="Today: the last task ticked. Day done. Everything planned today is done." width="1179" height="2553" loading="lazy" decoding="async"><img class="t-light" data-src="assets/flow-done-light-640.webp" data-srcset="assets/flow-done-light-640.webp 640w, assets/flow-done-light.webp 1179w" sizes="(max-width: 899px) 92vw, 272px" alt="Today: the last task ticked. Day done. Everything planned today is done." width="1179" height="2553" loading="lazy" decoding="async"></div>
                   <div class="hw-scr" data-s="week"><img class="t-dark" data-src="assets/flow-week-dark-640.webp" data-srcset="assets/flow-week-dark-640.webp 640w, assets/flow-week-dark.webp 1179w" sizes="(max-width: 899px) 92vw, 272px" alt="Week 4, Oct 23 to Oct 29: execution score 88%, 7 of 8 tasks done, target 85%" width="1179" height="2553" loading="lazy" decoding="async"><img class="t-light" data-src="assets/flow-week-light-640.webp" data-srcset="assets/flow-week-light-640.webp 640w, assets/flow-week-light.webp 1179w" sizes="(max-width: 899px) 92vw, 272px" alt="Week 4, Oct 23 to Oct 29: execution score 88%, 7 of 8 tasks done, target 85%" width="1179" height="2553" loading="lazy" decoding="async"></div>
                   <span class="sweep" aria-hidden="true"></span><span class="glass" aria-hidden="true"></span>
@@ -422,7 +422,7 @@
   <small>© 2026 Shortyear</small>
 </footer>
 
-<script src="home-ui.js?v=1346e270"></script>
+<script src="home-ui.js?v=d7ae8432"></script>
 <script src="home.js?v=1c2963ab"></script>
 </body>
 </html>
